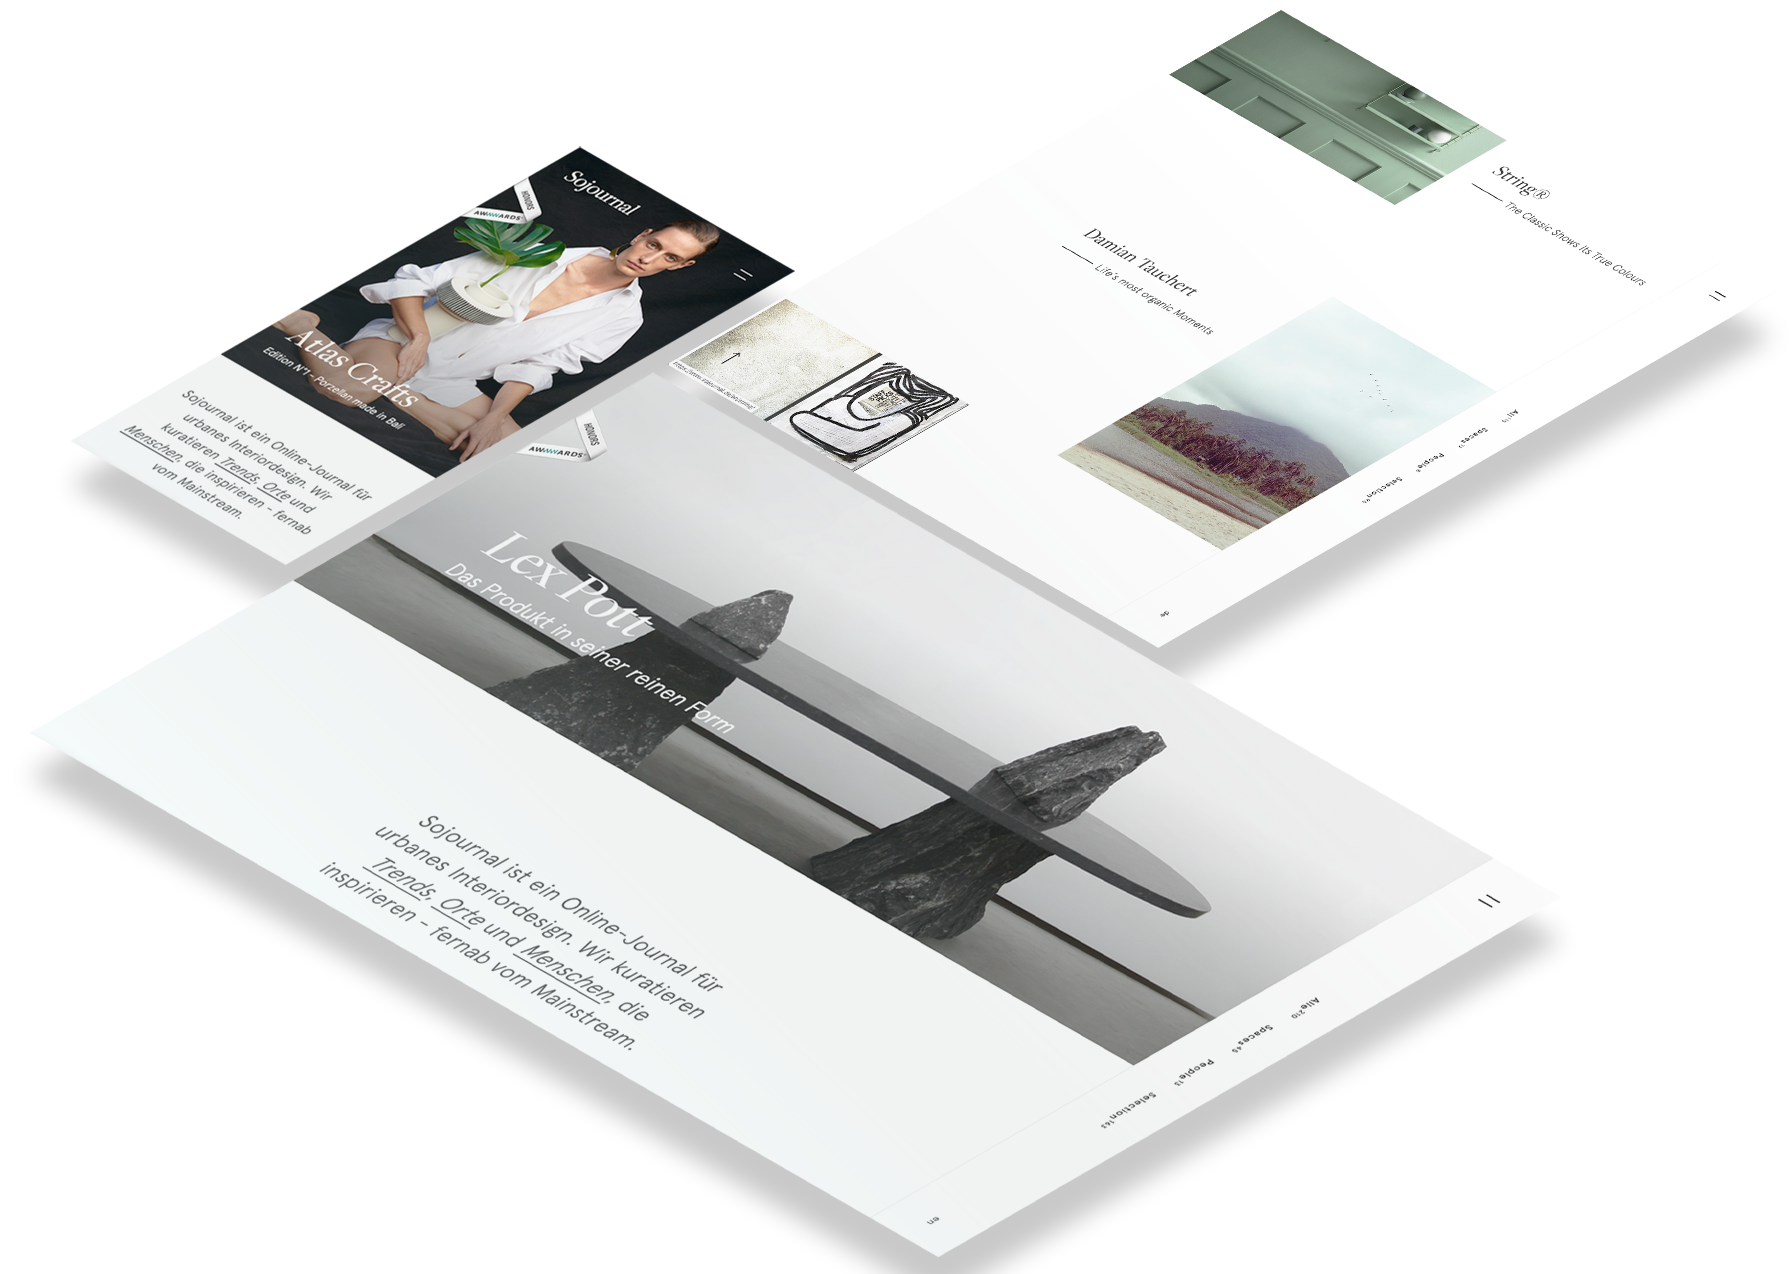
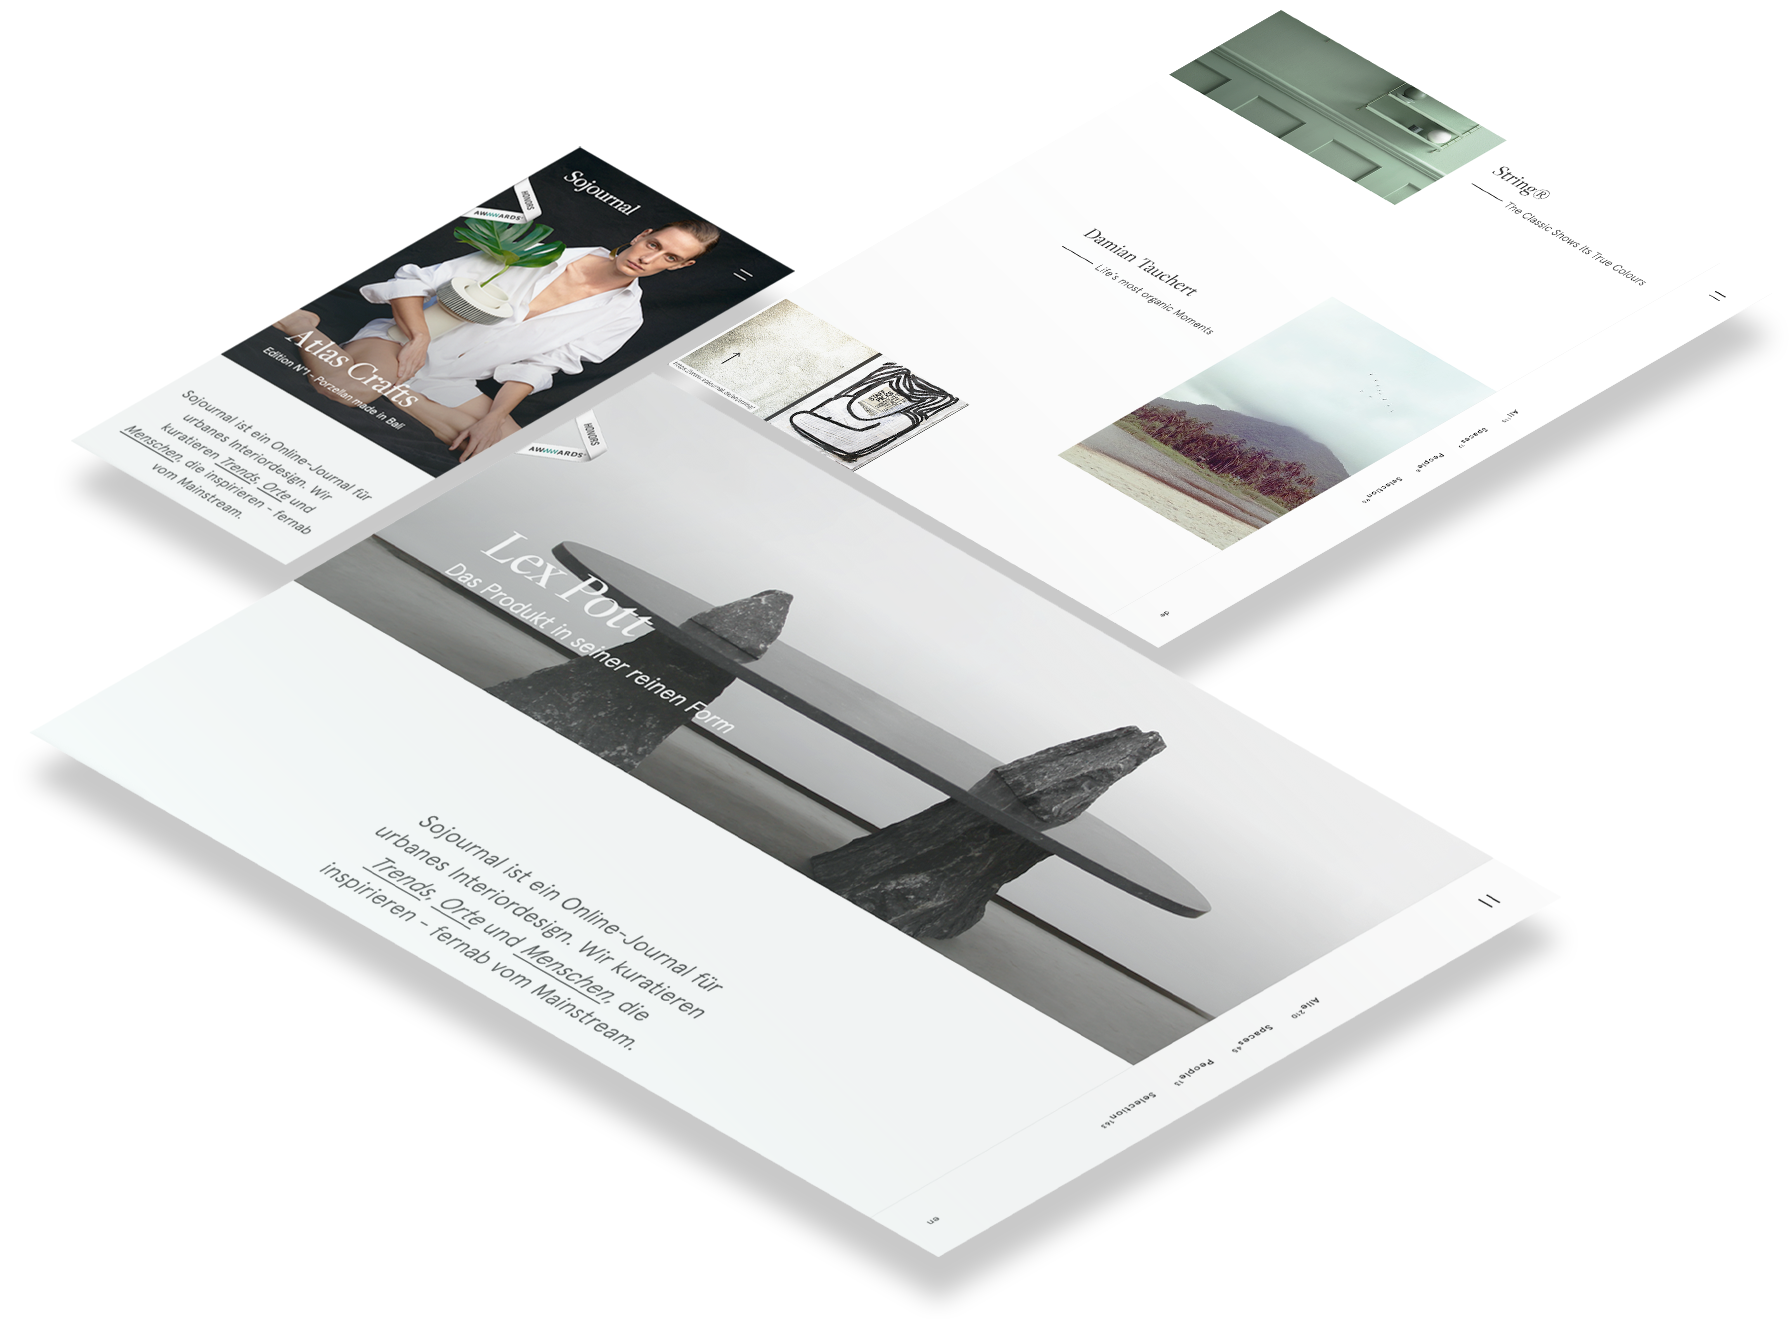
retocs lleus imatges

diff --git a/index.html b/index.html
@@ -107,7 +107,7 @@
 						</p>
 					</div>
 				</div>
-				<img src="/assets/img/automatli/auto-portada-mockup.png" alt="automatli screenshot">
+				<img src="/assets/img/automatli/auto-project.png" alt="automatli screenshot">
 			</div>
 		</section>
 		<!-- END SECTION: Web Design -->
